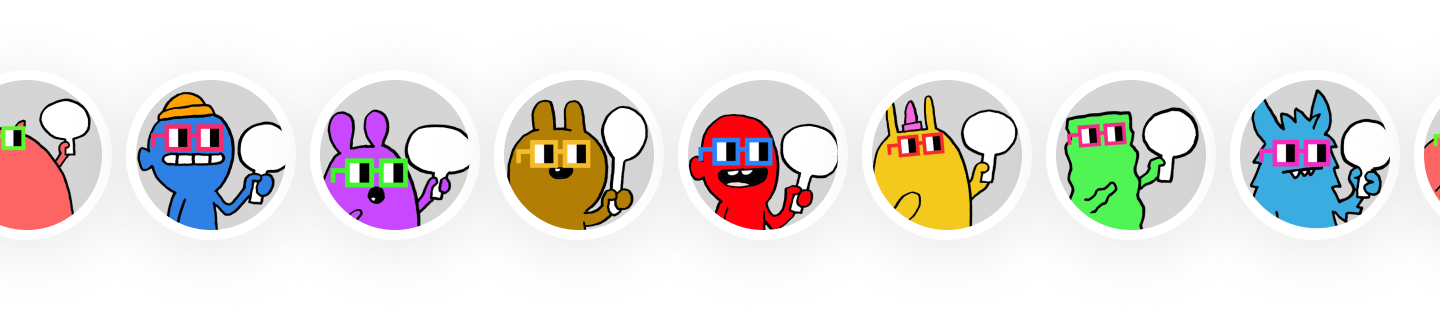
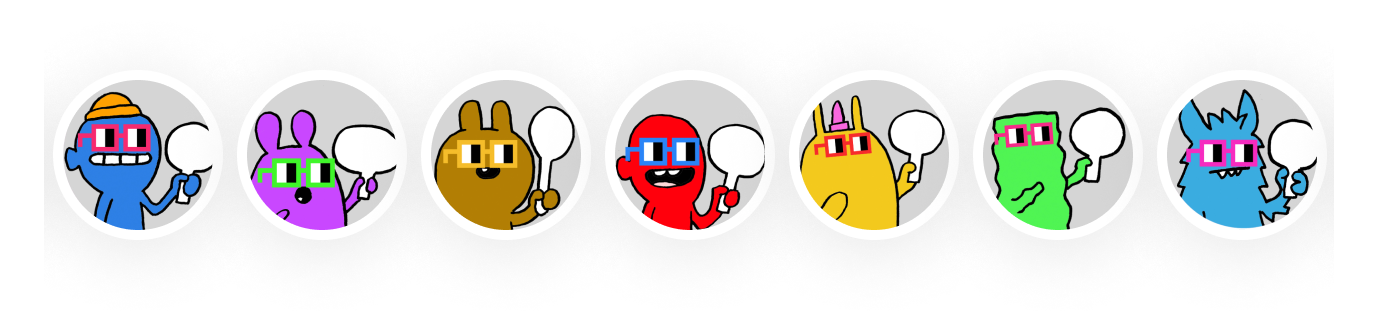
updates

Changed region(s): [[0.0, 0.2424, 1.0, 0.697]]

diff --git a/pages/about.tsx b/pages/about.tsx
@@ -5,7 +5,7 @@ import Nav from "./components/Nav";
 const About = () => {
   return (
     <div className="min-h-screen bg-nouns-bg-blue text-white">
-      <div className="xs:w-11/12 sm:w-full  m-auto maxW">
+      <div className=" w-11/12  m-auto maxW">
         <Nav about />
         <div className="">
           <div className="text-nouns font-light xs:text-3xl sm:text-6xl sm:w-8/12 leading-tight xs:mt-10 sm:mt-14">
@@ -21,18 +21,22 @@ const About = () => {
             </p>
           </div>
         </div>
-      </div>
+        {/* </div> */}
 
-      <div className="xs:py-10 sm:py-2">
-        <img
-          className="w-full xs:hidden sm:block"
-          src="./group.png"
-          alt="group"
-        />
-        <img className="w-full sm:hidden" src="./group-m.png" alt="group" />
-      </div>
+        <div className="xs:py-10 sm:py-2">
+          <img
+            className="w-full xs:hidden sm:block"
+            src="./noungroup.png"
+            alt="group"
+          />
+          <img
+            className="w-full sm:hidden"
+            src="./noungroup-m.png"
+            alt="group"
+          />
+        </div>
 
-      <div className="xs:w-11/12 sm:w-9/12 m-auto  sm:max">
+        {/* <div className="xs:w-11/12 sm:w-9/12 m-auto  sm:max"> */}
         <div className="flex xs:flex-col sm:flex-row justify-between align-center">
           <div className="text-nouns xs:text-5xl sm:text-6xl">How it works</div>
           <div className="text-dm sm:w-1/3 flex-end xs:pt-4 sm:pt-0">
@@ -90,8 +94,8 @@ const About = () => {
             </div>
           </div>
         </div>
+        <Footer dark={true} />
       </div>
-      <Footer dark={true} />
     </div>
   );
 };

diff --git a/pages/gallery.tsx b/pages/gallery.tsx
@@ -13,7 +13,7 @@ const Gallery = () => {
 
   return (
     <div className=" min-h-screen bg-nouns-bg-darkblue">
-      <div className="xs:w-11/12  sm:w-full  m-auto text-nouns-yellow xs:pb-10 sm:pb-20 maxW">
+      <div className=" w-11/12  m-auto text-nouns-yellow xs:pb-10 sm:pb-20 maxW">
         <Nav gallery />
         <div className="flex xs:flex-col sm:gap-4 sm:flex-row xs:mb-4 sm:mb-10 xs:text-center">
           <div className="text-nouns header">Gallery</div>
@@ -22,12 +22,12 @@ const Gallery = () => {
           </p>
         </div>
 
-        <div className="flex flex-wrap xs:flex-col sm:flex-row  border-nouns-yellow border-opacity-20 font-bold text-dm sm:border-t">
+        <div className="flex flex-wrap xs:flex-col sm:flex-row  border-nouns-yellow border-opacity-20 font-bold text-dm sm:border-t mb-10">
           {auctions &&
             auctions.map((a) => <Card number={a.auction} bidder={a.bids} />)}
         </div>
+        <Footer dark={true} gallery />
       </div>
-      <Footer dark={true} gallery />
     </div>
   );
 };

diff --git a/pages/404.tsx b/pages/404.tsx
@@ -5,11 +5,11 @@ import Nav from "./components/Nav";
 
 const Custom404 = () => {
   return (
-    <div className="four h-screen bg-nouns-pink ">
-      <div className="xs:w-11/12 sm:w-9/12 m-auto">
+    <div className="four bg-nouns-pink h-screen">
+      <div className="w-11/12  m-auto maxW ">
         <Nav about={false} four />
         <div className="text-center flex flex-col items-center pt-10">
-          <img className="mb-10" src="404a.png" alt="404" />
+          <img className="mb-10 sm:w-8/12" src="404a.png" alt="404" />
 
           <div className="sm:mt-6">
             <p className="text-nouns text-3xl mb-4">Looks like you got lost.</p>

diff --git a/pages/index.tsx b/pages/index.tsx
@@ -18,7 +18,7 @@ const Home = () => {
   return (
     <div className="min-h-screen bg-nouns-bg-grey">
       <Header />
-      <div className="maxW xs:w-11/12 sm:w-full m-auto">
+      <div className="maxW w-11/12 m-auto">
         <Nav home about={false} />
 
         {auctions && (
